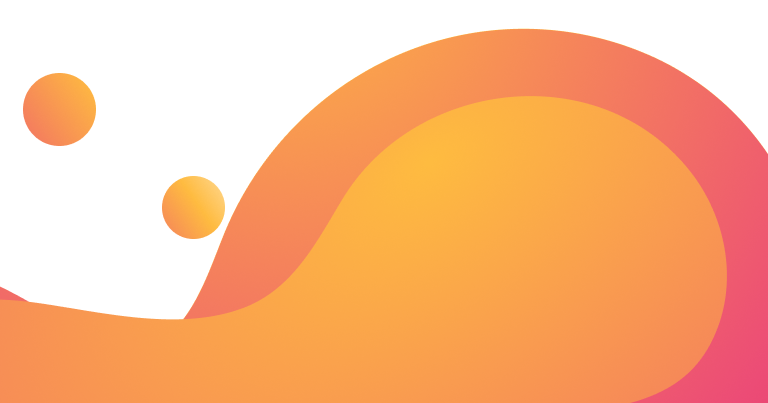
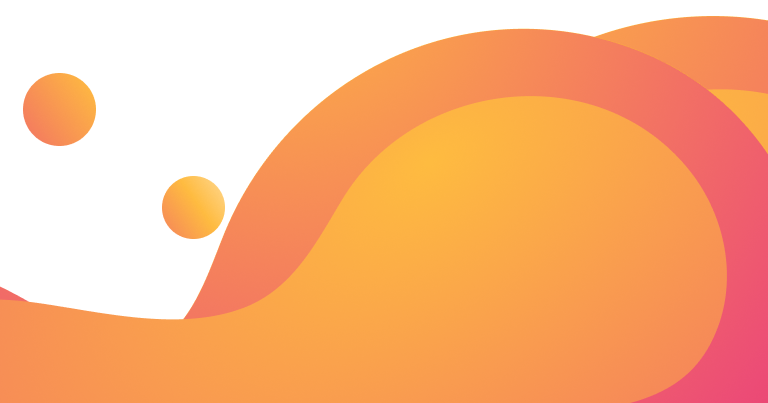
fixed styles

Changed region(s): [[0.7812, 0.0298, 1.0, 0.3871]]

diff --git a/src/components/LoginForm/LoginForm.styled.jsx b/src/components/LoginForm/LoginForm.styled.jsx
@@ -5,173 +5,13 @@ import bg1280 from './background/bg1280Auth.png';
 import { Field } from 'formik';
 import { NavLink } from 'react-router-dom';
 
-// export const LogInWrapper = styled.div`
-//   display: block;
-//   max-width: 100%;
-
-//   margin-left: auto;
-//   margin-right: auto;
-//   margin-bottom: 151px;
-//   @media screen and (min-width: 768px) {
-//     max-width: 608px;
-//     background-color: rgba(255, 255, 255, 1);
-//     box-shadow: 7px 4px 14px rgba(0, 0, 0, 0.11);
-//     border-radius: 40px;
-//     padding: 60px 80px;
-//     margin-top: 204px;
-//     margin-bottom: 260px;
-//   }
-
-//   @media screen and (min-width: 1280px) {
-//     margin-top: 80px;
-//     max-width: 618px;
-//     margin-bottom: 124px;
-//   }
-// `;
-
-// export const LogInTitle = styled.h1`
-//   font-size: 24px;
-//   font-weight: 700;
-//   text-align: center;
-//   margin-bottom: 40px;
-//   margin-top: 42px;
-//   letter-spacing: 0.04em;
-//   @media screen and (min-width: 768px) {
-//     margin-top: 0;
-//     font-size: 36px;
-//   }
-
-//   @media screen and (min-width: 1280px) {
-//     font-size: 36px;
-//   }
-// `;
-
-// export const LogInInput = styled(Field)`
-//   width: 100%;
-//   padding: 11px 14px;
-//   background-color: #fdf7f2;
-//   border: ${props => props.border || `1px solid rgba(245, 146, 86, 0.5)`};
-//   margin-bottom: ${props => props.marginbottom || `24px`};
-//   border-radius: 40px;
-//   font-size: 18px;
-//   font-weight: 400;
-//   line-height: 1.4;
-//   color: rgba(17, 17, 17, 0.6);
-//   @media screen and (min-width: 768px) {
-//     padding: 14px 32px;
-//     margin-bottom: ${props => props.marginbottom || `39px`};
-//   }
-//   @media screen and (min-width: 1280px) {
-//     padding: 14px 32px;
-//     margin-bottom: ${props => props.marginbottom || `16px`};
-//   }
-//   /* margin-bottom: 24px; */
-// `;
-
-// export const LogInButton = styled.button`
-//   width: 100%;
-//   background: #f59256;
-//   border-radius: 40px;
-//   border: 2px solid transparent;
-//   color: rgba(255, 255, 255, 1);
-//   font-size: 20px;
-//   font-weight: 500;
-//   padding: 8px 0;
-//   margin-top: 16px;
-//   margin-bottom: 40px;
-//   transition: background-color 0.25s cubic-bezier(0.4, 0, 0.2, 1),
-//     color 0.25s cubic-bezier(0.4, 0, 0.2, 1);
-//   &:hover,
-//   &:focus {
-//     background-color: rgba(255, 255, 255, 1);
-//     border: 2px solid #f59256;
-//     color: rgba(0, 0, 0, 1);
-//     transition: background-color 0.25s cubic-bezier(0.4, 0, 0.2, 1),
-//       color 0.25s cubic-bezier(0.4, 0, 0.2, 1);
-//   }
-//   @media screen and (min-width: 768px) {
-//     width: 458px;
-//   }
-//   @media screen and (min-width: 1280px) {
-//     width: 458px;
-//   }
-// `;
-
-// export const LogInText = styled.p`
-//   text-align: center;
-//   color: rgba(17, 17, 17, 0.6);
-//   font-size: 12px;
-//   font-weight: 400;
-//   letter-spacing: 0.04em;
-// `;
-
-// export const Anchor = styled.a`
-//   color: rgba(48, 145, 235, 1);
-//   font-size: 12px;
-//   font-weight: 400;
-//   letter-spacing: 0.04em;
-//   margin-left: 3px;
-// `;
-
-// export const ErrorMessage = styled.div`
-//   color: rgba(226, 0, 26, 1);
-//   font-weight: 400;
-//   font-size: 14px;
-//   line-height: 1.35;
-//   margin-bottom: 24px;
-//   margin-left: 15px;
-//   @media screen and (min-width: 768px) {
-//     margin-left: 33px;
-//   }
-//   @media screen and (min-width: 1280px) {
-//     margin-left: 33px;
-//   }
-// `;
-
-// export const ApproveMessage = styled.div`
-//   color: rgba(60, 188, 129, 1);
-//   font-weight: 400;
-//   font-size: 14px;
-//   line-height: 1.35;
-//   margin-bottom: 24px;
-//   margin-left: 15px;
-//   @media screen and (min-width: 768px) {
-//     margin-left: 33px;
-//   }
-//   @media screen and (min-width: 1280px) {
-//     margin-left: 33px;
-//   }
-// `;
-
-// export const InputWrapper = styled.div`
-//   position: relative;
-// `;
-
-// export const Icon = styled.svg`
-//   position: absolute;
-//   content: '';
-//   top: 15px;
-//   right: 18px;
-//   @media screen and (min-width: 768px) {
-//     top: 19px;
-//     right: 20px;
-//   }
-//   @media screen and (min-width: 1280px) {
-//     top: 19px;
-//     right: 20px;
-//   }
-// `;
-
-// export const Section = styled.section`
-//   background-color: teal;
-// `;
-
 export const LogInWrapper = styled.div`
   display: block;
   max-width: 100%;
-  min-height: 100vh;
+  /* min-height: 100vh; */
   margin-left: auto;
   margin-right: auto;
+
   /* margin-bottom: 151px; */
   @media screen and (min-width: 768px) {
     max-width: 608px;
@@ -337,17 +177,26 @@ export const Icon = styled.svg`
 export const Section = styled.section`
   background-image: url(${bg320});
   background-repeat: no-repeat;
+  background-size: contain;
+
   background-position: bottom;
-  height: 100vh;
-  margin-top: 42px;
+  background-position: left 0px bottom 25px;
+  /* background-size: 100%; */
+  /* height: 100vh; */
+  padding-top: 42px;
+  padding-bottom: 151px;
 
   @media screen and (min-width: 768px) {
     background-image: url(${bg780});
-    margin-top: 204px;
+    background-position: left -1px bottom 133px;
+    padding-top: 204px;
+    padding-bottom: 260px;
   }
 
   @media screen and (min-width: 1280px) {
     background-image: url(${bg1280});
-    margin-top: 80px;
+    background-position: bottom;
+    padding-top: 80px;
+    padding-bottom: 124px;
   }
 `;

diff --git a/src/components/LoginForm/LoginFormV2.jsx b/src/components/LoginForm/LoginFormV2.jsx
@@ -15,6 +15,8 @@ import {
   ApproveMessage,
   InputWrapper,
   Section,
+  //   Background,
+  //   FormStyled,
 } from './LoginForm.styled';
 import { GreenIcon, RedIcon } from './Icons';
 
@@ -62,6 +64,7 @@ const LogInForm = () => {
                 <LogInInput
                   name="email"
                   type="email"
+                  autoComplete="off"
                   placeholder="Email"
                   marginbottom={
                     touched.email && '24' && (errors.email ? '0' : '0')
@@ -89,6 +92,7 @@ const LogInForm = () => {
                 <LogInInput
                   name="password"
                   type="password"
+                  autoComplete="off"
                   placeholder="Password"
                   marginbottom={
                     touched.email && '24' && (errors.email ? '0' : '0')

diff --git a/src/redux/login/logIn-operations.js b/src/redux/login/logIn-operations.js
@@ -1,5 +1,6 @@
 import axios from 'axios';
 import { createAsyncThunk } from '@reduxjs/toolkit';
+import { toast } from 'react-toastify';
 
 axios.defaults.baseURL = `https://petly-site-back.up.railway.app`;
 
@@ -16,11 +17,11 @@ export const logIn = createAsyncThunk(
   async (credentials, thunkAPI) => {
     try {
       const response = await axios.post('/auth/login', credentials);
-      // console.log(response.data.data.user);
-
       setAuthHeader(response.data.data.accessToken);
+
       return response.data;
     } catch (e) {
+      toast.error(e.response.data.message);
       return thunkAPI.rejectWithValue(e.message);
     }
   },
